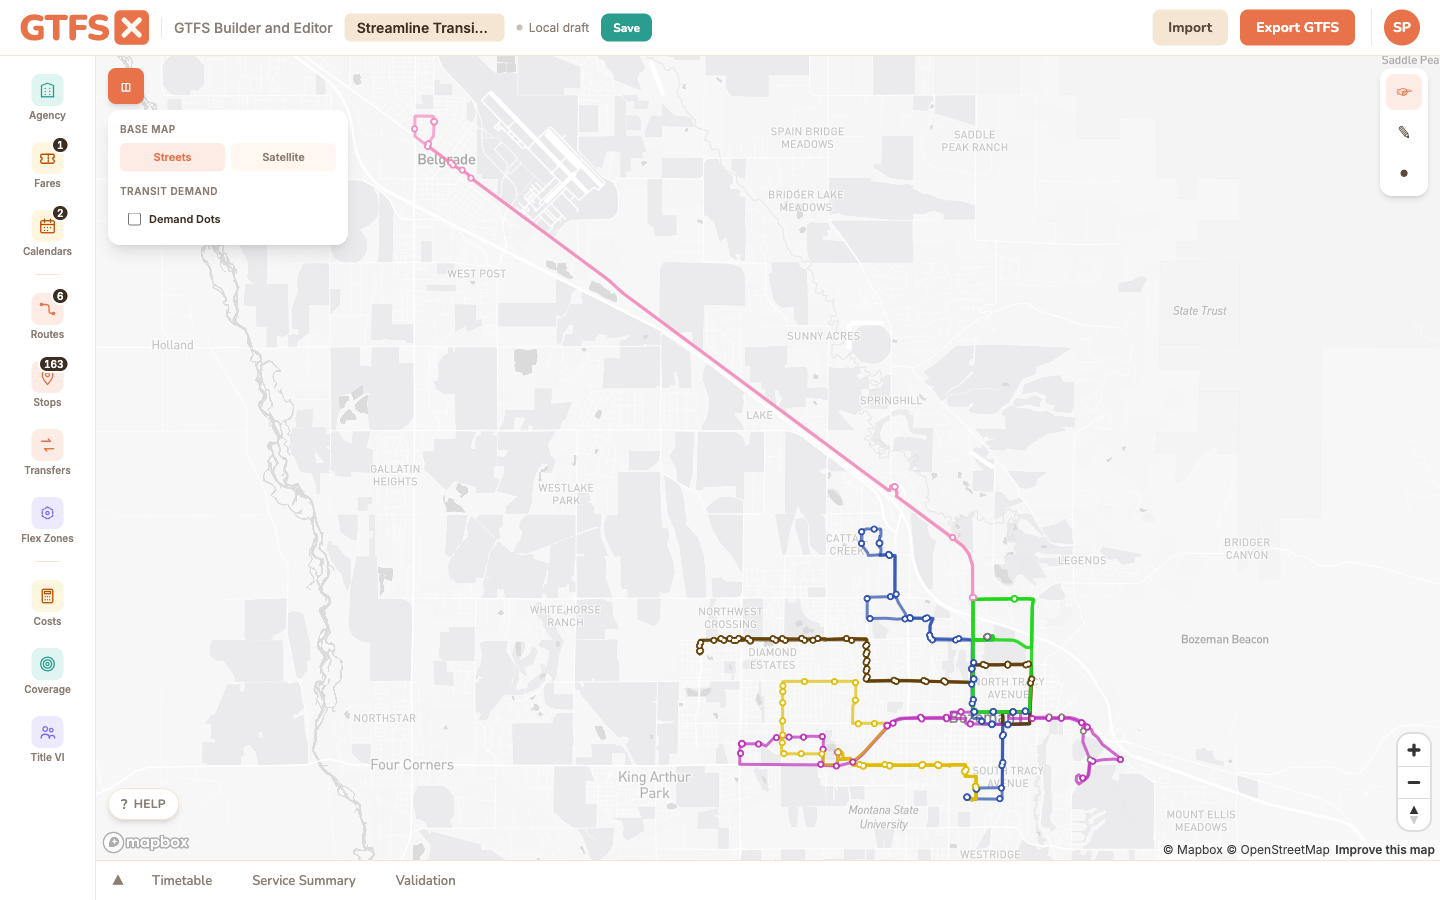
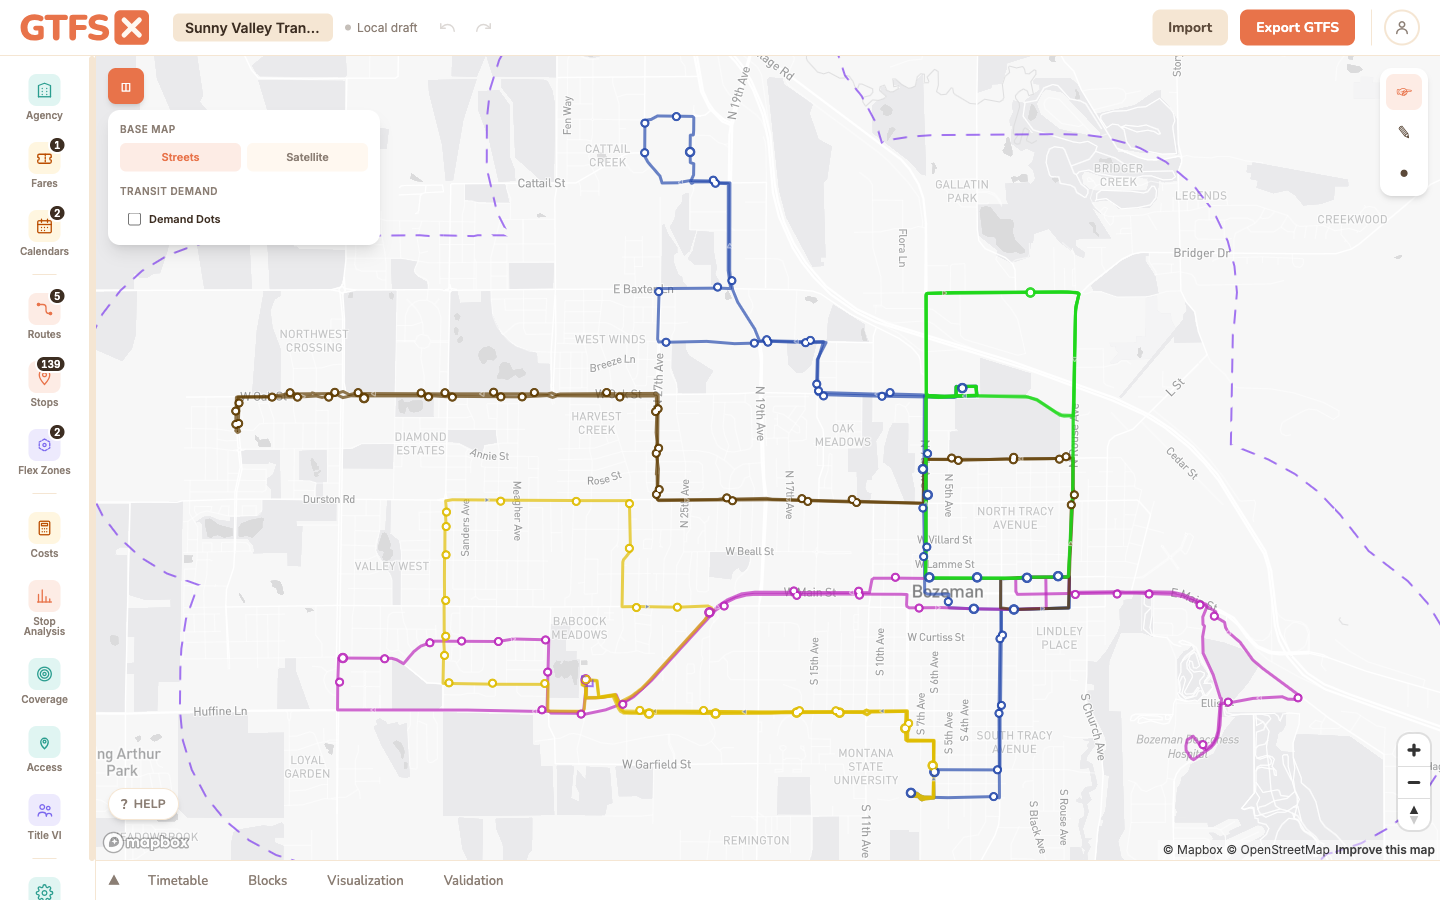
Fix the docs runbooks and regenerate the screenshots
The ARCHITECTURE runbook told you to build the tileset with a bare
`cat tiles/ldjson/*.ldjson | tippecanoe`. That single word is now two bugs:
it skips the staleness gate, and it reintroduces the ladder bias by letting
each state's ordinal restart, so following our own docs would rebuild a
defect we just spent hours removing. It now documents the generated
--cat-verified command and the mandatory verify step.

Both upload commands were impossible. `wrangler r2 object put` hard-fails
above 300 MiB, and neither artifact has ever been under it -- the coverage
layer is 1.7 GB and the tileset 1.28 GB. The real path is rclone with
--s3-no-check-bucket, which is required because our R2 token can write
objects but not create buckets, and rclone probes for the latter by default.
Also records that a piped rclone reports the pipe's exit status, so an upload
can fail while reporting success: verify against the bucket listing, not $?.

The rider-propensity screenshots still showed the old three-class rendering,
so the page contradicted its own images. Regenerated against the real UI.
Low income is the hero rather than carless, because in Bozeman carless
renders as ~88px of strong blue against 680px muted -- the selected group is
nearly invisible, which makes a poor first impression of the feature.

The gray was captioned "the rest of the population", which is exactly the
misreading the muted tone exists to prevent, and the panel layout was
described upside down.

diff --git a/public/docs/rider-propensity/index.html b/public/docs/rider-propensity/index.html
@@ -108,11 +108,11 @@
 
       <figure>
         <img src="/assets/docs/rider-propensity-dots-on.png" alt="GTFS·X editor with the Demand Dots layer enabled, showing colored population dots and job dots across the Bozeman area." loading="lazy" />
-        <figcaption>Demand Dots overlaid on the demo feed: the selected population group in color, jobs in orange, and the rest of the population as a gray backdrop.</figcaption>
+        <figcaption>Demand Dots overlaid on the demo feed, with <strong>Low income</strong> picked in <strong>Ridership propensity</strong> mode: the segment you picked in strong blue, the rest of the propensity group in a muted blue, everyone else in gray, and jobs in orange. The legend's “1 dot ≈ 40 people” is the ratio in force at this zoom.</figcaption>
       </figure>
 
       <h2 id="where-to-find-it">Where to find it</h2>
-      <p>Demand Dots is a <strong>basemap layer toggle</strong>, not a sidebar panel. Open the basemap control on the top-right of the map (the small square icon below the zoom controls) and check the <strong>Demand Dots</strong> box. Once it's on you get a mode switch between <strong>Ridership propensity</strong> and <strong>Transit need</strong>, a radio to draw either the whole group (<strong>All</strong>) or one segment at a time, and checkboxes for <strong>Jobs</strong> and <strong>Everyone else</strong>. The layer draws from <strong>zoom 8</strong> (roughly a whole state on screen) all the way in, and every control works at every one of those zooms, including picking a single segment while zoomed out.</p>
+      <p>Demand Dots is a <strong>basemap layer toggle</strong>, not a sidebar panel. Open the basemap control on the top-right of the map (the small square icon below the zoom controls) and check the <strong>Demand Dots</strong> box. Once it's on you get a mode switch between <strong>Ridership propensity</strong> and <strong>Transit need</strong>, then a radio to draw either the whole group (<strong>All likely riders</strong>, or <strong>Everyone with transit need</strong>) or one segment at a time, and below that, checkboxes for <strong>Jobs</strong> and <strong>Everyone else</strong>. The layer draws from <strong>zoom 8</strong> (roughly a whole state on screen) all the way in, and every control works at every one of those zooms, including picking a single segment while zoomed out.</p>
 
       <figure>
         <img src="/assets/docs/rider-propensity-basemap-toggle.png" alt="Basemap control panel in the GTFS·X editor showing a Demand Dots checkbox." loading="lazy" />
@@ -132,9 +132,9 @@
       <h2 id="what-the-dots-show">What the dots show</h2>
       <p><strong>One dot is one person.</strong> Not one dot per group they belong to: one dot, for one resident, carrying whichever of the four memberships they actually have. A carless, low-income senior is a single dot, not three. Jobs are the one exception. A job is not a person, so it lives in its own universe with its own color, and is never mixed into or deduplicated against the residential population.</p>
       <p>That has a consequence worth stating plainly, because it is the whole point of the layer: <strong>every resident is drawn exactly once, in every view.</strong> Changing the mode or picking a segment does not filter people off the map. It <em>recolors</em> the same dots. Nobody is ever double-drawn, and nobody ever silently disappears.</p>
-      <p>Above the mode switch there are two independent checkboxes, and a radio that chooses which group is highlighted:</p>
+      <p>Under the mode switch sits a radio that chooses which group is highlighted, and under that, two independent checkboxes:</p>
       <ul>
-        <li><strong>All</strong> — the whole group (propensity or need) as a single deduplicated union, in strong blue. Nobody is drawn twice, even though a person can be carless <em>and</em> low-income <em>and</em> disabled at once.</li>
+        <li><strong>All likely riders</strong> in propensity mode, <strong>Everyone with transit need</strong> in need mode — the whole group as a single deduplicated union, in strong blue. Nobody is drawn twice, even though a person can be carless <em>and</em> low-income <em>and</em> disabled at once. Both are referred to as the <em>All</em> option below.</li>
         <li><strong>A single segment</strong> — zero-vehicle households, low income, seniors 65+, or disability on its own. Picking one paints the people who have that membership in strong blue, and paints <em>the rest of the group</em>, meaning people who are in the propensity or need union but not in the segment you picked, in a <strong>muted blue</strong>. They stay on the map, because they are not "everyone else". This matters: with <strong>Carless</strong> selected in propensity mode, the low-income-but-not-carless residents are roughly a quarter of the population, and they belong in neither the strong blue nor the gray.</li>
         <li><strong>Jobs</strong> (checkbox) — workplace locations from LEHD LODES, in orange. Jobs are counted at the <em>workplace</em>, a different universe from the residential population, so they are never deduplicated against it and can always be read alongside any segment.</li>
         <li><strong>Everyone else</strong> (checkbox) — the neutral gray backdrop, and it means what it says: residents in <em>neither</em> the segment you picked nor the rest of the group. Strong blue plus muted blue plus gray is the entire resident population, always. The contrast is the part that matters; a neighborhood where the blue crowds out the gray is where the group concentrates.</li>

diff --git a/docs/ARCHITECTURE.md b/docs/ARCHITECTURE.md
@@ -276,74 +276,83 @@ Design rationale is preserved in the decisions appendix of the archived
 - D1 `gtfs-builder` (`cfb27d4e-…`), KV (`da2476e5…`), R2 `gtfs-builder-feeds`
   + `gtfs-builder-forum-images`, tiles in `gtfs-builder-tiles`. Migrations
   0001–0018 applied.
-- **Demand-dot pipeline rebuilt to ATTRIBUTE DOTS (2026-07-13), NOT published.**
-  Archive `us-2026e`. This is a **tile schema change, not a reissue**: a dot is
-  now one PERSON carrying a packed flag bitmask in an integer `d` attribute, and
-  the old composite/backdrop/segment CLASSES (`prop_all`, `need_all`,
-  `backdrop_prop`, `backdrop_need`, `carless`, `low_income`, `senior`,
-  `disability`) no longer exist in the tiles at all. See Appendix A. Status:
+- **Demand-dot pipeline rebuilt to ATTRIBUTE DOTS (2026-07-13), being re-tiled,
+  NOT YET published.** Archive `us-2026e`. This is a **tile schema change, not
+  a reissue**: a dot is now one PERSON carrying a packed flag bitmask in an
+  integer `d` attribute, and the old composite/backdrop/segment CLASSES
+  (`prop_all`, `need_all`, `backdrop_prop`, `backdrop_need`, `carless`,
+  `low_income`, `senior`, `disability`) no longer exist in the tiles at all.
+  See Appendix A. Status:
   - Pipeline (`build_dots.py`, `joint_flags.py`, `puma_union.py`,
     `build_puma_corrections.py`, `verify_tiles.py`, `demand-legend.json`) and the
     frontend consumer (`demandCategories.ts`, `demandLegend.ts`,
     `DemandDotsLayer.tsx`, `MapLayerControls.tsx`) are rewritten in the working
-    tree and **entirely uncommitted**.
-  - **No state has been built under the current config.** The newest local
-    artifacts (`tiles/mt-2026d.pmtiles` 17.0 MB, `tiles/ldjson/dots_MT.ldjson`
-    + sidecar) are from the *previous* class-per-segment schema: the sidecar
-    says `archive: us-2026d`, carries `config_hash 0aec3e55aff8` against the
-    current `6179fb9f9380`, and has no `code_dots` key, so `verify_tiles.py`
-    rejects it outright as "a PRE-ATTRIBUTE-DOTS sidecar". `build_all_states.sh`
-    will therefore rebuild all 51 states + DC + PR on the next run, as intended.
-    (Montana was built and measured under the new schema during development at
-    **7.3 MB**, a 2.23x shrink against the 17.0 MB `us-2026d` build, but that
-    archive is not on disk.)
-  - Nothing pushed to R2 `gtfs-builder-tiles` under the new name.
-  - **Production still serves `us-2026b`** — the original 3-class tileset, two
+    tree and **entirely uncommitted**, on branch
+    `feat/demand-dots-demographic-layers`.
+  - **A nationwide re-tile is in progress.** The prior local artifacts
+    (`tiles/mt-2026d.pmtiles` 17.0 MB, `tiles/ldjson/dots_MT.ldjson` + sidecar)
+    were from the *previous* class-per-segment schema—sidecar `archive:
+    us-2026d`, `config_hash 0aec3e55aff8` against the current `6179fb9f9380`,
+    no `code_dots` key, so `verify_tiles.py` rejects it outright as "a
+    PRE-ATTRIBUTE-DOTS sidecar"—so `build_all_states.sh` is rebuilding all 51
+    states + DC + PR from scratch, as intended. (Montana was built and
+    measured under the new schema during development at **7.3 MB**, a 2.23x
+    shrink against the 17.0 MB `us-2026d` build, but that archive is not on
+    disk.)
+  - **`us-2026e` is NOT yet published to R2** `gtfs-builder-tiles`, and
+    **production still serves `us-2026b`**—the original 3-class tileset, two
     schema generations behind (`us-2026c` and `us-2026d` were never published
     either).
-  - A **nationwide rebuild + `verify_tiles.py` pass is required** before
-    `us-2026e` can be published. Do not consider the redesign live until then;
-    see the Demand-dot regen runbook in Appendix A.
-- **⚠️ Coverage block layer schema change — regen still pending (2026-07-13).**
-  The new schema retires `riders` and adds `carless`, `disability`,
-  `prop_all`, `need_all` (PUMS-derived ridership-propensity / transit-need
-  unions). `coverage-pipeline/build_coverage_blocks.py` and the frontend
-  consumers (`blockCoverage.ts`, `walkshedProfile.ts`, `demographics.ts`,
-  `CoveragePanel.tsx`, `WalkshedProfileTable.tsx`) are committed on this
-  branch, validated on a single-state Montana build only. Status:
-  - **The R2 key is now versioned, not overwritten in place.** The client
-    reads `COVERAGE_REGION` (`src/services/blockCoverage.ts`) = `us-v2`, not a
-    bare `us`, so the nationwide rebuild ships to a **new** object,
+  - Publishing still requires the tile build (piped through `--cat-verified`,
+    never a bare `cat`—see Appendix A) to pass `verify_tiles.py`, then an
+    rclone upload (wrangler hard-fails above 300 MiB; the pmtiles archive is
+    ~1.28 GiB—see the Demand-dot regen runbook in Appendix A). Do not consider
+    the redesign live until both have happened.
+- **Coverage block layer schema change — BUILT, UPLOADED, VERIFIED
+  (2026-07-13).** The new schema retires `riders` and adds `carless`,
+  `disability`, `prop_all`, `need_all` (PUMS-derived ridership-propensity /
+  transit-need unions). `coverage-pipeline/build_coverage_blocks.py` and the
+  frontend consumers (`blockCoverage.ts`, `walkshedProfile.ts`,
+  `demographics.ts`, `CoveragePanel.tsx`, `WalkshedProfileTable.tsx`) are
+  committed on branch `feat/demand-dots-demographic-layers` (unmerged).
+  Status:
+  - **The R2 key is versioned, not overwritten in place.** The client reads
+    `COVERAGE_REGION` (`src/services/blockCoverage.ts`) = `us-v2`, not a bare
+    `us`, so the nationwide rebuild shipped to a **new** object,
     `coverage/us-v2.fgb`, leaving prod's currently-deployed old-schema client
-    reading its existing `coverage/us.fgb` untouched until it redeploys. This
-    covers the direction `CoverageLayerSchemaError` (below) cannot: an OLD,
+    reading its existing `coverage/us.fgb` untouched. This covers the
+    direction `CoverageLayerSchemaError` (below) cannot: an OLD,
     already-deployed client reading a NEW layer would otherwise read a
     missing `riders` column as `undefined → 0`, with no error surface,
-    because that client was built before this change existed. See the
-    Coverage-layer regen runbook in Appendix A and
-    `demand-dots/coverage-pipeline/README.md`'s "Deploy ordering" section for
-    the exact upload command and safe sequencing.
-  - **A nationwide regen is still required and has NOT been run** — that is a
-    deliberate, separate, ~3–5h step:
-    ```
-    cd demand-dots/coverage-pipeline
-    ../.venv/bin/python build_us.py --out us-v2.fgb --jobs 4
-    wrangler r2 object put gtfs-builder-tiles/coverage/us-v2.fgb \
-      --file us-v2.fgb --content-type application/octet-stream --remote
-    ```
-  - **The other direction (new client / stale or missing layer) was already
-    defended before this fix, and still is:** `loadBlocksInBbox()` throws
-    `CoverageLayerSchemaError` when the served `.fgb` lacks the union
-    columns, so until the regen above is run and uploaded, this client
-    degrades to the block-group path (straight ACS counts, propensity/need
-    estimate marked unavailable) rather than rendering `prop_all` as a
-    confident `0`.
+    because that client was built before this change existed.
+  - **The nationwide regen is done.** `build_us.py --out us-v2.fgb --jobs 4`
+    ran to completion, and `us-v2.fgb` was uploaded to
+    `gtfs-builder-tiles/coverage/us-v2.fgb` via **rclone**, not wrangler—
+    wrangler hard-fails above 300 MiB ("Wrangler only supports uploading
+    files up to 300 MiB in size") and the file is ~1.7 GiB, so `wrangler r2
+    object put` has never been able to upload it. See the Coverage-layer
+    regen runbook in Appendix A and
+    `demand-dots/coverage-pipeline/README.md`'s "Host it" section for the
+    exact command (`--s3-no-check-bucket` is required, or the R2 token—
+    scoped to object read/write only—gets a 403 trying to `CreateBucket`).
+  - **Verified serving from prod:** `/_coverage/us-v2.fgb` returns **HTTP
+    206** (range request against the uploaded FlatGeobuf), confirmed against
+    the bucket listing (`rclone lsl r2:gtfs-builder-tiles/coverage/`), not
+    just the upload command's exit code—a piped `rclone … | tail` reports
+    `tail`'s exit status, not rclone's, so that distinction mattered today.
+  - **`coverage/us.fgb` (the old schema) is untouched** and is the rollback:
+    prod's currently-deployed client still reads it exclusively until the
+    client change (`COVERAGE_REGION = 'us-v2'`) merges and deploys.
+    `loadBlocksInBbox()` throws `CoverageLayerSchemaError` if a served `.fgb`
+    ever lacks the union columns, so a stale/old layer degrades to the
+    block-group path (counts only, no propensity/need estimate) rather than
+    rendering `prop_all` as a confident `0`.
   - **The old layer also under-counted.** Independent per-column rounding in
     the apportionment destroyed rare attributes: measured on Montana, the
     live `coverage/us.fgb` is short **-10.2% of zero-vehicle households** (a
     Title VI equity numerator) and **-5.7% of carless residents**. Fixed with
-    largest-remainder apportionment; the regen is what puts the fix into
-    prod.
+    largest-remainder apportionment; `us-v2.fgb` carries the fix, but it only
+    reaches prod once the client redeploys reading the new key.
   - Once prod is confirmed running the client that reads `us-v2`, the old
     `coverage/us.fgb` object may be deleted from R2.
 - **GTFS-Realtime Service Alerts (BE-90..93)** live since 2026-05-30 — Agency+
@@ -979,7 +988,8 @@ The build is now generated from constants by `build_dots.tippecanoe_command()` s
 the runbook cannot hand-type a flag that disagrees with the legend:
 
 ```
-cat ../tiles/ldjson/*.ldjson | tippecanoe --output=../tiles/us-2026e.pmtiles \
+./.venv/bin/python build_dots.py --cat-verified '../tiles/ldjson/*.ldjson' \
+  | tippecanoe --output=../tiles/us-2026e.pmtiles \
     --layer=demand --minimum-zoom=8 --maximum-zoom=15 \
     --drop-rate=1 --base-zoom=8 \
     --maximum-tile-bytes=1500000 --maximum-tile-features=300000 \
@@ -996,6 +1006,48 @@ cat ../tiles/ldjson/*.ldjson | tippecanoe --output=../tiles/us-2026e.pmtiles \
   the built maxzoom deterministic and equal to `TILE_MAX_ZOOM = 15`.
 - `--drop-densest-as-needed` is kept as a **safety net only**. The ladder is sized
   so it never fires, and `verify_tiles.py` fails the build if it ever does.
+
+#### CRITICAL: the input is piped through `--cat-verified`, NEVER a bare `cat`
+
+A bare `cat ../tiles/ldjson/*.ldjson | tippecanoe …` is wrong in two ways, both
+found the hard way in production, and either alone is enough to block a
+publish:
+
+- **It bypasses the staleness gate.** `--cat-verified` checks every input's
+  `.meta.json` sidecar against the pipeline's current `config_hash` before it
+  emits a single byte, and refuses outright if any input is missing its
+  sidecar, unreadable, pre-attribute-dots, or built under a different config
+  (`validate_tile_inputs()`/`StaleInputError` in `build_dots.py`). Fifty-two
+  leftover `.ldjson` files from a previous schema are exactly the kind of thing
+  a bare `cat` would happily splice into a tileset that comes out internally
+  consistent and entirely wrong—with no error raised anywhere, because once
+  the bytes are concatenated no downstream check can tell a stale state from a
+  fresh one.
+- **It re-phases the zoom ladder across the whole stream, and a bare `cat`
+  reintroduces a real dot bias.** Each dot's per-feature `minzoom` comes from
+  its code's running ordinal, taken modulo the ladder's period (128, the z8
+  stride)—see `restride_lines()`. That ordinal has to run across the ENTIRE
+  archive, not restart per state, or every state's z8 slot (ordinal 0, the
+  rarest rung) rounds its count up by an extra dot, and the ~0.5-dot excess per
+  code accumulates once per state. `--cat-verified` does this re-phasing at
+  concatenation time, the one point where the whole archive exists as a single
+  stream. A bare `cat` leaves each of the 52 states' ordinals restarting at
+  zero: measured on the real archive, `carless+disability` (121,221 dots)
+  carried 28 extra dots at z8 against an expected 947—**+2.9%**, six times
+  `verify_tiles.py`'s 0.5% tolerance—and it hits the rarest codes hardest, at
+  the lowest zooms only, which is exactly the signature a bare `cat` produces.
+
+Both failures produce a tileset that **passes casual inspection**—it renders,
+it looks internally consistent, the totals are plausible—**and fails
+verification**. Do not "simplify" the generated command back to a bare `cat`;
+that is precisely the bug this flag exists to close.
+
+The mandatory verify step—an archive that fails it must not be published:
+
+```
+./.venv/bin/python verify_tiles.py ../tiles/us-2026e.pmtiles \
+  --meta '../tiles/ldjson/*.ldjson.meta.json' --legend demand-legend.json
+```
 
 #### CRITICAL: EVERY feature carries an explicit minzoom—do not revert this
 
@@ -1178,8 +1230,20 @@ cd /Users/clippy2/proj/gtfsx
    --meta '../tiles/ldjson/*.ldjson.meta.json')
 
 ARCHIVE="$(cd demand-dots && ./.venv/bin/python -c 'import build_dots; print(build_dots.TILESET_ARCHIVE)')"
-npx wrangler r2 object put gtfs-builder-tiles/${ARCHIVE}.pmtiles --file=tiles/${ARCHIVE}.pmtiles \
-  --remote --content-type=application/vnd.pmtiles --cache-control="public, max-age=31536000, immutable"  # 7
+# 7. UPLOAD via rclone, NOT wrangler. wrangler hard-fails above 300 MiB
+#    ("Wrangler only supports uploading files up to 300 MiB in size") and the
+#    pmtiles archive is ~1.28 GiB, so `wrangler r2 object put` cannot do this
+#    upload (same ceiling that blocks the coverage .fgb—see "Coverage-layer
+#    regen" below and coverage-pipeline/README.md "Host it"). rclone is already
+#    configured with an `r2:` remote. `--s3-no-check-bucket` is REQUIRED:
+#    without it rclone calls CreateBucket first, and the R2 token (object
+#    read/write only) returns 403 AccessDenied on that call—not on the upload,
+#    which is misleading if you don't already know the flag is missing.
+rclone copyto "tiles/${ARCHIVE}.pmtiles" "r2:gtfs-builder-tiles/${ARCHIVE}.pmtiles" \
+  --s3-no-check-bucket --s3-chunk-size 64M --s3-upload-concurrency 4
+# Verify against the bucket, not the exit code—a piped `| tail` reports tail's
+# exit status, not rclone's, so a failed upload can still report success:
+rclone lsl r2:gtfs-builder-tiles/ | grep "${ARCHIVE}.pmtiles"
 # 8. commit demand-dots/demand-legend.json (it names the archive the frontend fetches,
 #    and carries the flag bits every client-side filter is enumerated from)
 #    alongside any TILESET_ARCHIVE bump, and push—CI deploys. No DemandDotsLayer.tsx
@@ -1227,8 +1291,18 @@ prop_all, need_all, jobs`. `carless`/`disability` are straight ACS counts;
 ```bash
 cd demand-dots/coverage-pipeline
 ../.venv/bin/python build_us.py --out us-v2.fgb --jobs 4   # ~3-5 h cold, resumable
-wrangler r2 object put gtfs-builder-tiles/coverage/us-v2.fgb \
-  --file us-v2.fgb --content-type application/octet-stream --remote
+# Upload via rclone, NOT wrangler—wrangler hard-fails above 300 MiB
+# ("Wrangler only supports uploading files up to 300 MiB in size") and
+# us-v2.fgb is ~1.7 GiB, so `wrangler r2 object put` has never worked for this
+# file. --s3-no-check-bucket is REQUIRED: without it rclone calls CreateBucket
+# first, and the R2 token (object read/write only) returns 403 AccessDenied—
+# pointing at bucket creation, not the upload. See
+# coverage-pipeline/README.md "Host it" for the full detail.
+rclone copyto us-v2.fgb r2:gtfs-builder-tiles/coverage/us-v2.fgb \
+  --s3-no-check-bucket --s3-chunk-size 64M --s3-upload-concurrency 4
+# Verify against the bucket, not the exit code (a piped `| tail` reports
+# tail's exit status, not rclone's—a failed upload can still report success):
+rclone lsl r2:gtfs-builder-tiles/coverage/
 ```
 
 `us-v2` is the current value of `COVERAGE_REGION` in

diff --git a/demand-dots/coverage-pipeline/README.md b/demand-dots/coverage-pipeline/README.md
@@ -187,12 +187,35 @@ built, total block points, total pop/jobs, and output size.
 
 Upload the build to the GTFS·X tiles R2 bucket under the **versioned key that
 matches the client's `COVERAGE_REGION`** (`src/services/blockCoverage.ts`) —
-currently `us-v2` — NOT the bare `coverage/us.fgb` key:
+currently `us-v2` — NOT the bare `coverage/us.fgb` key.
+
+**Use `rclone`, not `wrangler`.** `us-v2.fgb` is ~1.7 GiB, and wrangler
+hard-fails above 300 MiB ("Wrangler only supports uploading files up to 300 MiB
+in size") — `wrangler r2 object put` has never been able to upload this file;
+it fails exactly this way every time it's tried. rclone is already configured
+with an `r2:` remote (S3-compatible endpoint, Cloudflare provider):
 
 ```bash
-wrangler r2 object put gtfs-builder-tiles/coverage/us-v2.fgb \
-  --file us-v2.fgb --content-type application/octet-stream --remote
+rclone copyto us-v2.fgb r2:gtfs-builder-tiles/coverage/us-v2.fgb \
+  --s3-no-check-bucket --s3-chunk-size 64M --s3-upload-concurrency 4
 ```
+
+`--s3-no-check-bucket` is REQUIRED. Without it, rclone calls `CreateBucket`
+before the upload, and our R2 token — scoped to object read/write, not bucket
+creation — returns `403 AccessDenied` on that call. The error surfaces as a
+bucket-creation failure, not an upload failure, which points at the wrong thing
+if you don't already know the flag is missing.
+
+**Verify the upload against the bucket, not the exit code.** Piping the
+command (e.g. `rclone ... | tail`) makes the reported exit status `tail`'s, not
+rclone's — a failed upload can still report success. Confirm the object
+actually landed with:
+
+```bash
+rclone lsl r2:gtfs-builder-tiles/coverage/
+```
+
+That listing, not the command's exit status, is the source of truth.
 
 (Name the local `--out` file to match — `build_us.py --out us-v2.fgb` — so the
 upload command above needs no translation.) The worker serves whatever key it's
@@ -276,8 +299,8 @@ ship, because the schema break cuts BOTH ways:
 1. Build the layer (see *Run*), naming the output after the NEW key
    (`--out us-v2.fgb`).
 2. Upload it to the NEW key — `coverage/us-v2.fgb` — per *Host it*, above.
-   **Never** `wrangler r2 object put ... coverage/us.fgb` over the existing
-   object while a client that depends on the old schema is still deployed.
+   **Never** `rclone copyto ... coverage/us.fgb` over the existing object
+   while a client that depends on the old schema is still deployed.
 3. Deploy the client change that points `COVERAGE_REGION` at the new key
    (already done in this repo — see `src/services/blockCoverage.ts`) and
    verify it in production against `/_coverage/us-v2.fgb`.